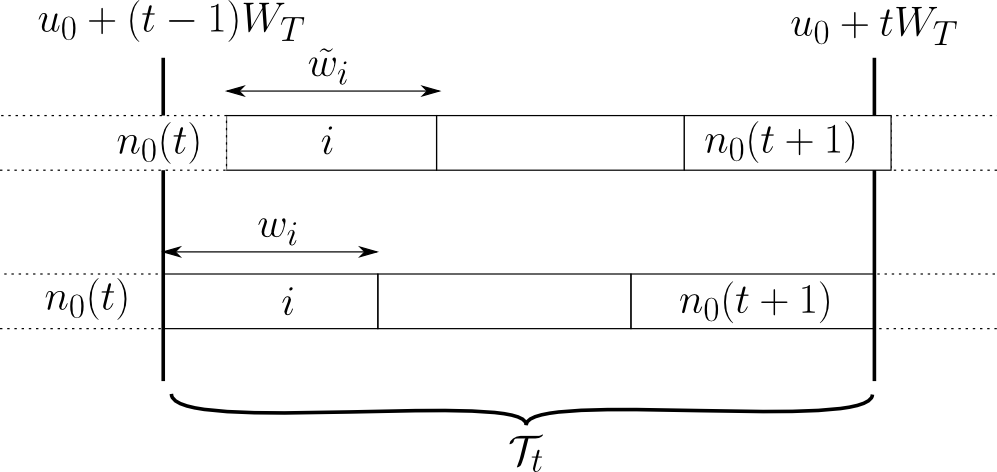
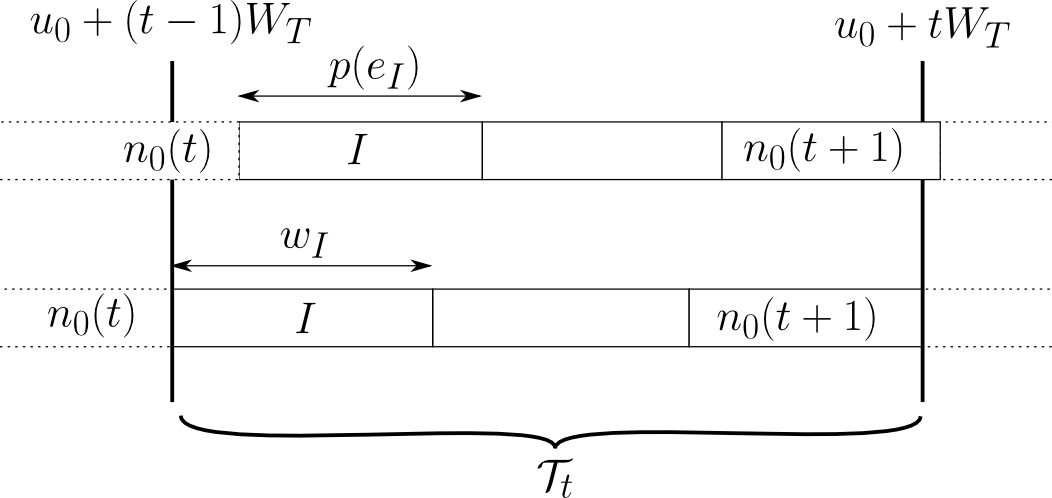
pt2 figures i->I

diff --git a/pt2.tex b/pt2.tex
@@ -178,7 +178,7 @@ To sample with $p(e_I)$, we set $w_I = p(e_I)$.
 	\end{center}
 	\caption{Schematic representation of 
 Values inside the boxes are generator indices. Values outside are probabilities and drawn random numbers.
-Drawing the random number $u$ using the probability density $w$ yields generator index $i=w(u)$.}
+Drawing the random number $u$ using the probability density $w$ yields generator index $I=w(u)$.}
 	\label{fig:mc_representation}
 \end{figure}
 
@@ -569,7 +569,7 @@ Because of the tooth filling mechanism, we know we will need at most $\Ngen$ com
 	$R[N_Q] \gets N_c$ \;
 	FILL\_TOOTH shown as algorithm \ref{alg:FILL_TOOTH} \;
 	}
-	\tcc{\alert{For convenience, makes sure the last task matches the last comb, rather than a tooth filling.}}
+	\tcc{For convenience, pretend the last comb is available when the last task is done (last task may be a tooth filling).}
 	\If{$\Ngen > 1$}{
 		$R[N_Q-1] \gets 0$ \;
 		$R[N_Q] \gets N_c$ \;

diff --git a/matrix_dressing.tex b/matrix_dressing.tex
@@ -484,7 +484,7 @@ Because of the ``tooth filling'', sometimes samples computed inside a checkpoint
 
 
 \begin{algorithm}
-        \caption{\alert{Caption TODO}}
+        \caption{Master node for stochastic estimation of ${\deltabold}$ }
 	$m \gets 1$ \;
 	$c \gets 1$ \;
 	$error \gets 0$ \;

diff --git a/thesis.tex b/thesis.tex
@@ -147,7 +147,9 @@ ${\Nint = \lfloor \frac{\Norb-1}{64} \rfloor + 1}$
 
 \item [$\NFCI$] : Number of determinants in the FCI space
 
+\item [$|\mathcal{D}|$] : Cardinality of the set $\mathcal{D}$.
 
+\item [$\kalpha$] : external determinant
 \end{itemize}
 
 
